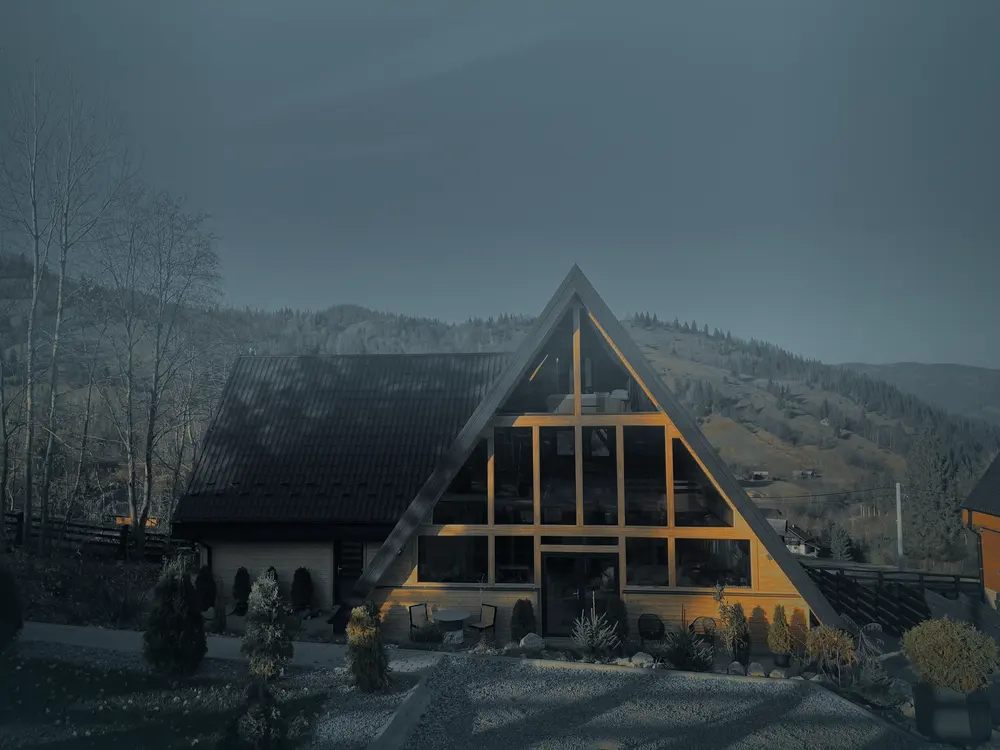
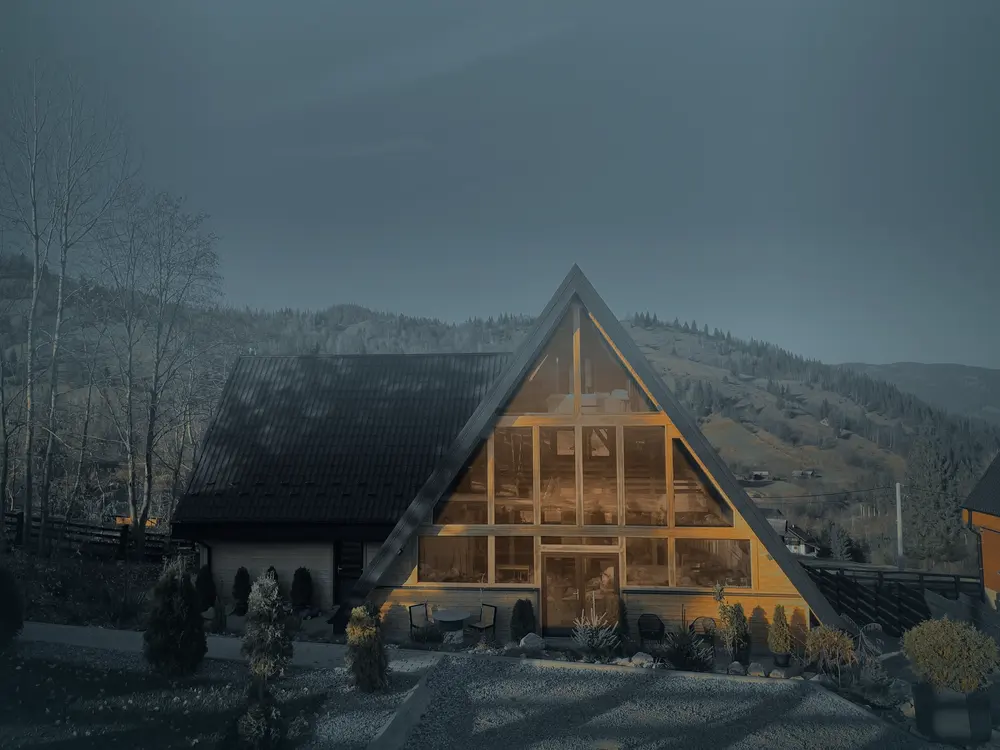
Warm lamplight in the hero gable, new brand mark, drop the WhatsApp FAB
- Hero: tools/mist.mjs gains lamps(): warm interior light behind the glass
  gable only (dark glass inside the glazing shapes; wood mullions untouched),
  pooled at living-room height with a soft bloom. Owner-requested evening
  look; recorded in IMAGE_CREDITS.md and PRODUCT.md
- Brand mark: line-drawn A-frame with crossed rafters and one amber lit
  window, replacing the filled amber triangle that read as a warning sign;
  favicon, app icons, maskable icon, 404 regenerated (icon cache bumped)
- Removed the floating WhatsApp button; booking lives in the menu's
  Rezervare button and the hero card

Changed region(s): [[0.403, 0.4293, 0.775, 0.8587]]

diff --git a/index.html b/index.html
@@ -25,10 +25,10 @@
   <meta name="twitter:image" content="https://cabanagreenview.ro/images/og.jpg">
 
   <!-- Icons -->
-  <link rel="icon" href="/favicon.ico?v=2" sizes="32x32">
-  <link rel="icon" href="/favicon.svg?v=2" type="image/svg+xml">
-  <link rel="apple-touch-icon" href="/apple-touch-icon.png?v=2">
-  <link rel="manifest" href="/site.webmanifest?v=2">
+  <link rel="icon" href="/favicon.ico?v=3" sizes="32x32">
+  <link rel="icon" href="/favicon.svg?v=3" type="image/svg+xml">
+  <link rel="apple-touch-icon" href="/apple-touch-icon.png?v=3">
+  <link rel="manifest" href="/site.webmanifest?v=3">
   <meta name="theme-color" content="#0d1a1e">
 
   <!-- Self-hosted fonts (see tools/fonts.mjs) -->
@@ -41,7 +41,7 @@
         imagesrcset="images/hero/cabin-mist-1000.webp 1000w, images/hero/cabin-mist.webp 2000w"
         imagesizes="100vw" fetchpriority="high">
 
-  <link rel="stylesheet" href="styles.css?v=27">
+  <link rel="stylesheet" href="styles.css?v=28">
 
   <!-- Structured data. TODO owner: add priceRange, exact streetAddress + postalCode,
        checkinTime / checkoutTime, petsAllowed, and sameAs links
@@ -144,7 +144,7 @@
   <!-- NAV -->
   <nav class="nav" id="nav" aria-label="Principal">
     <a class="brand" href="#hero" aria-label="Green View Rarău">
-      <svg class="brand-mark" viewBox="0 0 32 32" aria-hidden="true"><path d="M16 3.5 29 28H3z" fill="currentColor"/><path d="M13 28v-5.2a3 3 0 0 1 6 0V28z" fill="var(--ink-0)"/></svg>
+      <svg class="brand-mark" viewBox="5 2 54 54" aria-hidden="true"><g fill="none" stroke="currentColor" stroke-width="4.4" stroke-linecap="round"><path d="M11 52 37.1 5"/><path d="M53 52 26.9 5"/><path d="M20.5 36h23"/></g><rect x="27.5" y="41" width="9" height="11" rx="1.2" fill="var(--amber)"/></svg>
       <span>Green View Rarău</span>
     </a>
     <div class="nav-links" id="navLinks">
@@ -620,10 +620,6 @@
     </div>
   </footer>
 
-  <!-- FAB: direct WhatsApp chat -->
-  <a class="fab" href="https://wa.me/40756651582" target="_blank" rel="noopener noreferrer" aria-label="Scrie-ne pe WhatsApp">
-    <svg aria-hidden="true"><use href="#i-wa"/></svg>
-  </a>
 
   <!-- LIGHTBOX -->
   <div class="lightbox" id="lightbox" role="dialog" aria-modal="true" aria-label="Fotografie mărită">
@@ -641,6 +637,6 @@
        Plausible (self-host or plausible.io) — also feeds the track() events in app.js:
        <script defer data-domain="cabanagreenview.ro" src="https://plausible.io/js/script.js"></script>
   -->
-  <script src="app.js?v=26" defer></script>
+  <script src="app.js?v=27" defer></script>
 </body>
 </html>

diff --git a/styles.css b/styles.css
@@ -170,7 +170,7 @@ html { scrollbar-color: var(--mist-1) var(--ink-1); scrollbar-width: thin; }
   box-shadow: 0 0 0 1px rgba(242, 246, 246, 0.08), 0 12px 32px -16px rgba(0, 0, 0, 0.6);
 }
 .brand { display: inline-flex; align-items: center; gap: 0.65rem; font-size: 1.125rem; font-weight: 500; letter-spacing: -0.02em; margin-right: auto; white-space: nowrap; }
-.brand-mark { width: 26px; height: 26px; color: var(--amber); }
+.brand-mark { width: 28px; height: 28px; color: var(--snow); }
 .nav-links { display: flex; align-items: center; gap: clamp(1rem, 2.6vw, 2.75rem); }
 .nav-links a {
   font-size: 0.975rem; color: rgba(242, 246, 246, 0.86);
@@ -669,18 +669,6 @@ button.cal-day:hover:not(:disabled) { background: var(--ink-3); }
 }
 .footer-copy { margin-top: 20px; font-size: 0.85rem; color: var(--mist-2); }
 
-/* FAB — WhatsApp shortcut, only after the hero card is out of view */
-.fab {
-  position: fixed; right: 18px; bottom: 18px; z-index: 90;
-  width: 56px; height: 56px; border-radius: 50%;
-  display: grid; place-items: center;
-  background: var(--snow); color: var(--ink-1);
-  box-shadow: 0 10px 30px -10px rgba(0, 0, 0, 0.55);
-  opacity: 0; transform: translateY(16px) scale(0.9); pointer-events: none;
-  transition: opacity 0.3s, transform 0.4s var(--ease-out);
-}
-.fab svg { width: 26px; height: 26px; }
-.past-hero .fab { opacity: 1; transform: none; pointer-events: auto; }
 
 /* LIGHTBOX */
 .lightbox {

diff --git a/404.html b/404.html
@@ -5,8 +5,8 @@
   <meta name="viewport" content="width=device-width, initial-scale=1.0">
   <title>Pagină negăsită – Green View Rarău</title>
   <meta name="robots" content="noindex">
-  <link rel="icon" href="/favicon.ico?v=2" sizes="32x32">
-  <link rel="icon" href="/favicon.svg?v=2" type="image/svg+xml">
+  <link rel="icon" href="/favicon.ico?v=3" sizes="32x32">
+  <link rel="icon" href="/favicon.svg?v=3" type="image/svg+xml">
   <meta name="theme-color" content="#0d1a1e">
   <link rel="stylesheet" href="/fonts.css?v=2">
   <style>
@@ -43,8 +43,8 @@
 <body>
   <div class="wrap">
     <svg class="mark" viewBox="0 0 64 64" aria-hidden="true">
-      <path d="M32 7 58 56H6z" fill="#e9a23b"/>
-      <path d="M26 56V45.6a6 6 0 0 1 12 0V56z" fill="#0d1a1e"/>
+      <g fill="none" stroke="#f2f6f6" stroke-width="4.2" stroke-linecap="round"><path d="M11 52 37.1 5"/><path d="M53 52 26.9 5"/><path d="M20.5 36h23"/></g>
+      <rect x="27.5" y="41" width="9" height="11" rx="1.2" fill="#e9a23b"/>
     </svg>
     <h1>Pagina nu există</h1>
     <p>Se pare că linkul este greșit sau pagina a fost mutată. Hai înapoi la cabană.</p>

diff --git a/app.js b/app.js
@@ -160,8 +160,6 @@
   function onScrollFrame() {
     scrollTicking = false;
     nav.classList.toggle("scrolled", window.scrollY > 40);
-    // The WhatsApp FAB only appears once the hero's booking card has scrolled away.
-    document.documentElement.classList.toggle("past-hero", window.scrollY > window.innerHeight * 0.8);
   }
   window.addEventListener("scroll", function () {
     if (!scrollTicking) { scrollTicking = true; requestAnimationFrame(onScrollFrame); }

diff --git a/DESIGN.md b/DESIGN.md
@@ -93,14 +93,14 @@ Density is low and spacious. Sections breathe on large vertical rhythm, and one 
 - Two-tone headings: statement in snow, continuation clause in mist at the same size.
 - Dark glass panels with darker inner "well" fields, never nested cards.
 - Solid white buttons with near-black text; no coloured buttons.
-- Amber appears on the mark, map pins, review stars and focus rings, and nowhere else.
+- Amber appears on the mark's lit window, map pins, review stars and focus rings, and nowhere else.
 
 ## Colors
 
 A cool, low-chroma slate-teal ramp with one warm wood accent.
 
 ### Primary
-- **Lamplit Wood Amber** (amber): the brand mark, map points of interest, the location pin, focus outlines and text selection. A darker step (`#b97512`) colours stars on the fog ground for contrast.
+- **Lamplit Wood Amber** (amber): the lit window in the brand mark, map points of interest, the location pin, focus outlines and text selection. A darker step (`#b97512`) colours stars on the fog ground for contrast.
 
 ### Neutral
 - **Night Gable** (ink-0): deepest well, lightbox backdrop.
@@ -143,7 +143,7 @@ Content sits in a 1360px wrap with a fluid gutter (16–56px). Photographic stag
 
 ## Elevation & Depth
 
-Depth is atmospheric rather than stacked: backdrop blur over photography, tonal steps of the slate ramp, and long soft drop shadows only under floating glass (booking card, nav bar, modal, FAB).
+Depth is atmospheric rather than stacked: backdrop blur over photography, tonal steps of the slate ramp, and long soft drop shadows only under floating glass (booking card, nav bar, date picker).
 
 ### Shadow Vocabulary
 - **Frame drop** (`0 30px 80px -40px rgba(0,0,0,0.45)`): under the hero frame.
@@ -155,7 +155,7 @@ Depth is atmospheric rather than stacked: backdrop blur over photography, tonal 
 
 ## Shapes
 
-Generous, soft rectangles in four sizes: frames (24–52px) for photographic stages, cards (20–28px) for glass panels and photos, tiles (14px) for spec items, fields and buttons (12px). Pills (999px) for chips and the language toggle; circles for icon buttons and the FAB. Lists are separated by 1px hairlines, never boxed.
+Generous, soft rectangles in four sizes: frames (24–52px) for photographic stages, cards (20–28px) for glass panels and photos, tiles (14px) for spec items, fields and buttons (12px). Pills (999px) for chips and the language toggle; circles for icon buttons. Lists are separated by 1px hairlines, never boxed.
 
 ## Components
 
@@ -166,7 +166,7 @@ Generous, soft rectangles in four sizes: frames (24–52px) for photographic sta
 - **Chip:** pill outline in hairline, Pale Mist text; hover fills Field Slate.
 
 ### Cards / Containers
-- **Glass panel:** rgba(11,22,26,0.56–0.6) with 18–22px backdrop blur, 1px 7–8% snow hairline, card radius, 20–30px padding. Used for the booking card, season text, POI feature, modal.
+- **Glass panel:** rgba(11,22,26,0.56–0.6) with 18–22px backdrop blur, 1px 7–8% snow hairline, card radius, 20–30px padding. Used for the booking card, date picker, season text, POI feature.
 - **Spec tile:** Raised Slate fill with a hairline, 14px radius, 16–18px padding.
 
 ### Inputs / Fields
@@ -174,7 +174,7 @@ Generous, soft rectangles in four sizes: frames (24–52px) for photographic sta
 - **Focus:** 2px amber outline, 3px offset everywhere (dark ink outline on the fog ground).
 
 ### Navigation
-- Brand mark + name left, text links centre-right with an underline that draws in from the left on hover, pill language toggle, white "Rezervare" button. Over the hero it floats inside the frame with no fill; after 40px of scroll it becomes a glass bar pinned 10px from the top. Below 1024px the links move into a glass sheet behind a two-line burger.
+- Brand mark (line-drawn A-frame, crossed rafters, one amber lit window; snow strokes) + name left, text links centre-right with an underline that draws in from the left on hover, pill language toggle, white "Rezervare" button. Over the hero it floats inside the frame with no fill; after 40px of scroll it becomes a glass bar pinned 10px from the top. Below 1024px the links move into a glass sheet behind a two-line burger.
 
 ### Inset Photo Frame (signature)
 A full-bleed photograph with a rounded frame inset by `edge`, carrying the translucent rim. The hero and the seasons stage use it; the footer repeats the shape on the dark ground.
@@ -195,6 +195,7 @@ Glass track (16px radius, 5px padding) holding 44px tabs; the active tab is Snow
 - **Do** leave the gallery's documentary photos of the cabin (rooms, kitchen, exterior) in true colour; guests judge the property from them.
 - **Do** write headings as statements and use the mist continuation clause for the supporting line.
 - **Do** keep every interactive control at least 44px tall.
+- **Do** keep the booking entry points to the menu button and the hero card; no floating action buttons.
 - **Do** keep icons from the one 1.6px round-joined stroke family in the sprite.
 
 ### Don't:

diff --git a/IMAGE_CREDITS.md b/IMAGE_CREDITS.md
@@ -4,8 +4,9 @@ Cabin photos (`images/p*.jpg` / `.webp`, `images/og.jpg`) are the property owner
 
 `images/hero/cabin-mist*` is the owner's photo `p37` (2048px original from the first
 commit, `da8ac85:images/p37.jpg`) colour-graded to a dusk/mist look by `tools/mist.mjs`
-(cool slate-teal split-tone that keeps the wood warm, plus height-weighted haze). No
-elements added or removed; regenerate with the command in that file's header.
+(cool slate-teal split-tone that keeps the wood warm, plus height-weighted haze), plus
+warm interior lamplight behind the glass gable (`lamps()` in the same file; added at the
+owner's request on 2026-10-02 for an evening look). No objects added or removed; regenerate with the command in that file's header.
 
 ## Surroundings section (`images/poi/`)
 

diff --git a/PRODUCT.md b/PRODUCT.md
@@ -43,4 +43,7 @@ beautiful and right for their group, then open the calendar and send a WhatsApp 
   photo, big light grotesk headline with a muted middle line, dark glass booking card,
   white buttons, a small amber accent.
 - Photography is the owner's own cabin. A colour grade is fine; staging that misrepresents the
-  property is not.
+  property is not. The owner approved (2026-10-02) warm interior lamplight in the hero's
+  glass gable for an evening look; no objects are added or removed.
+- Brand mark: a line-drawn A-frame with crossed rafters and one amber lit window
+  (replaced a filled amber triangle that read as a warning sign).
